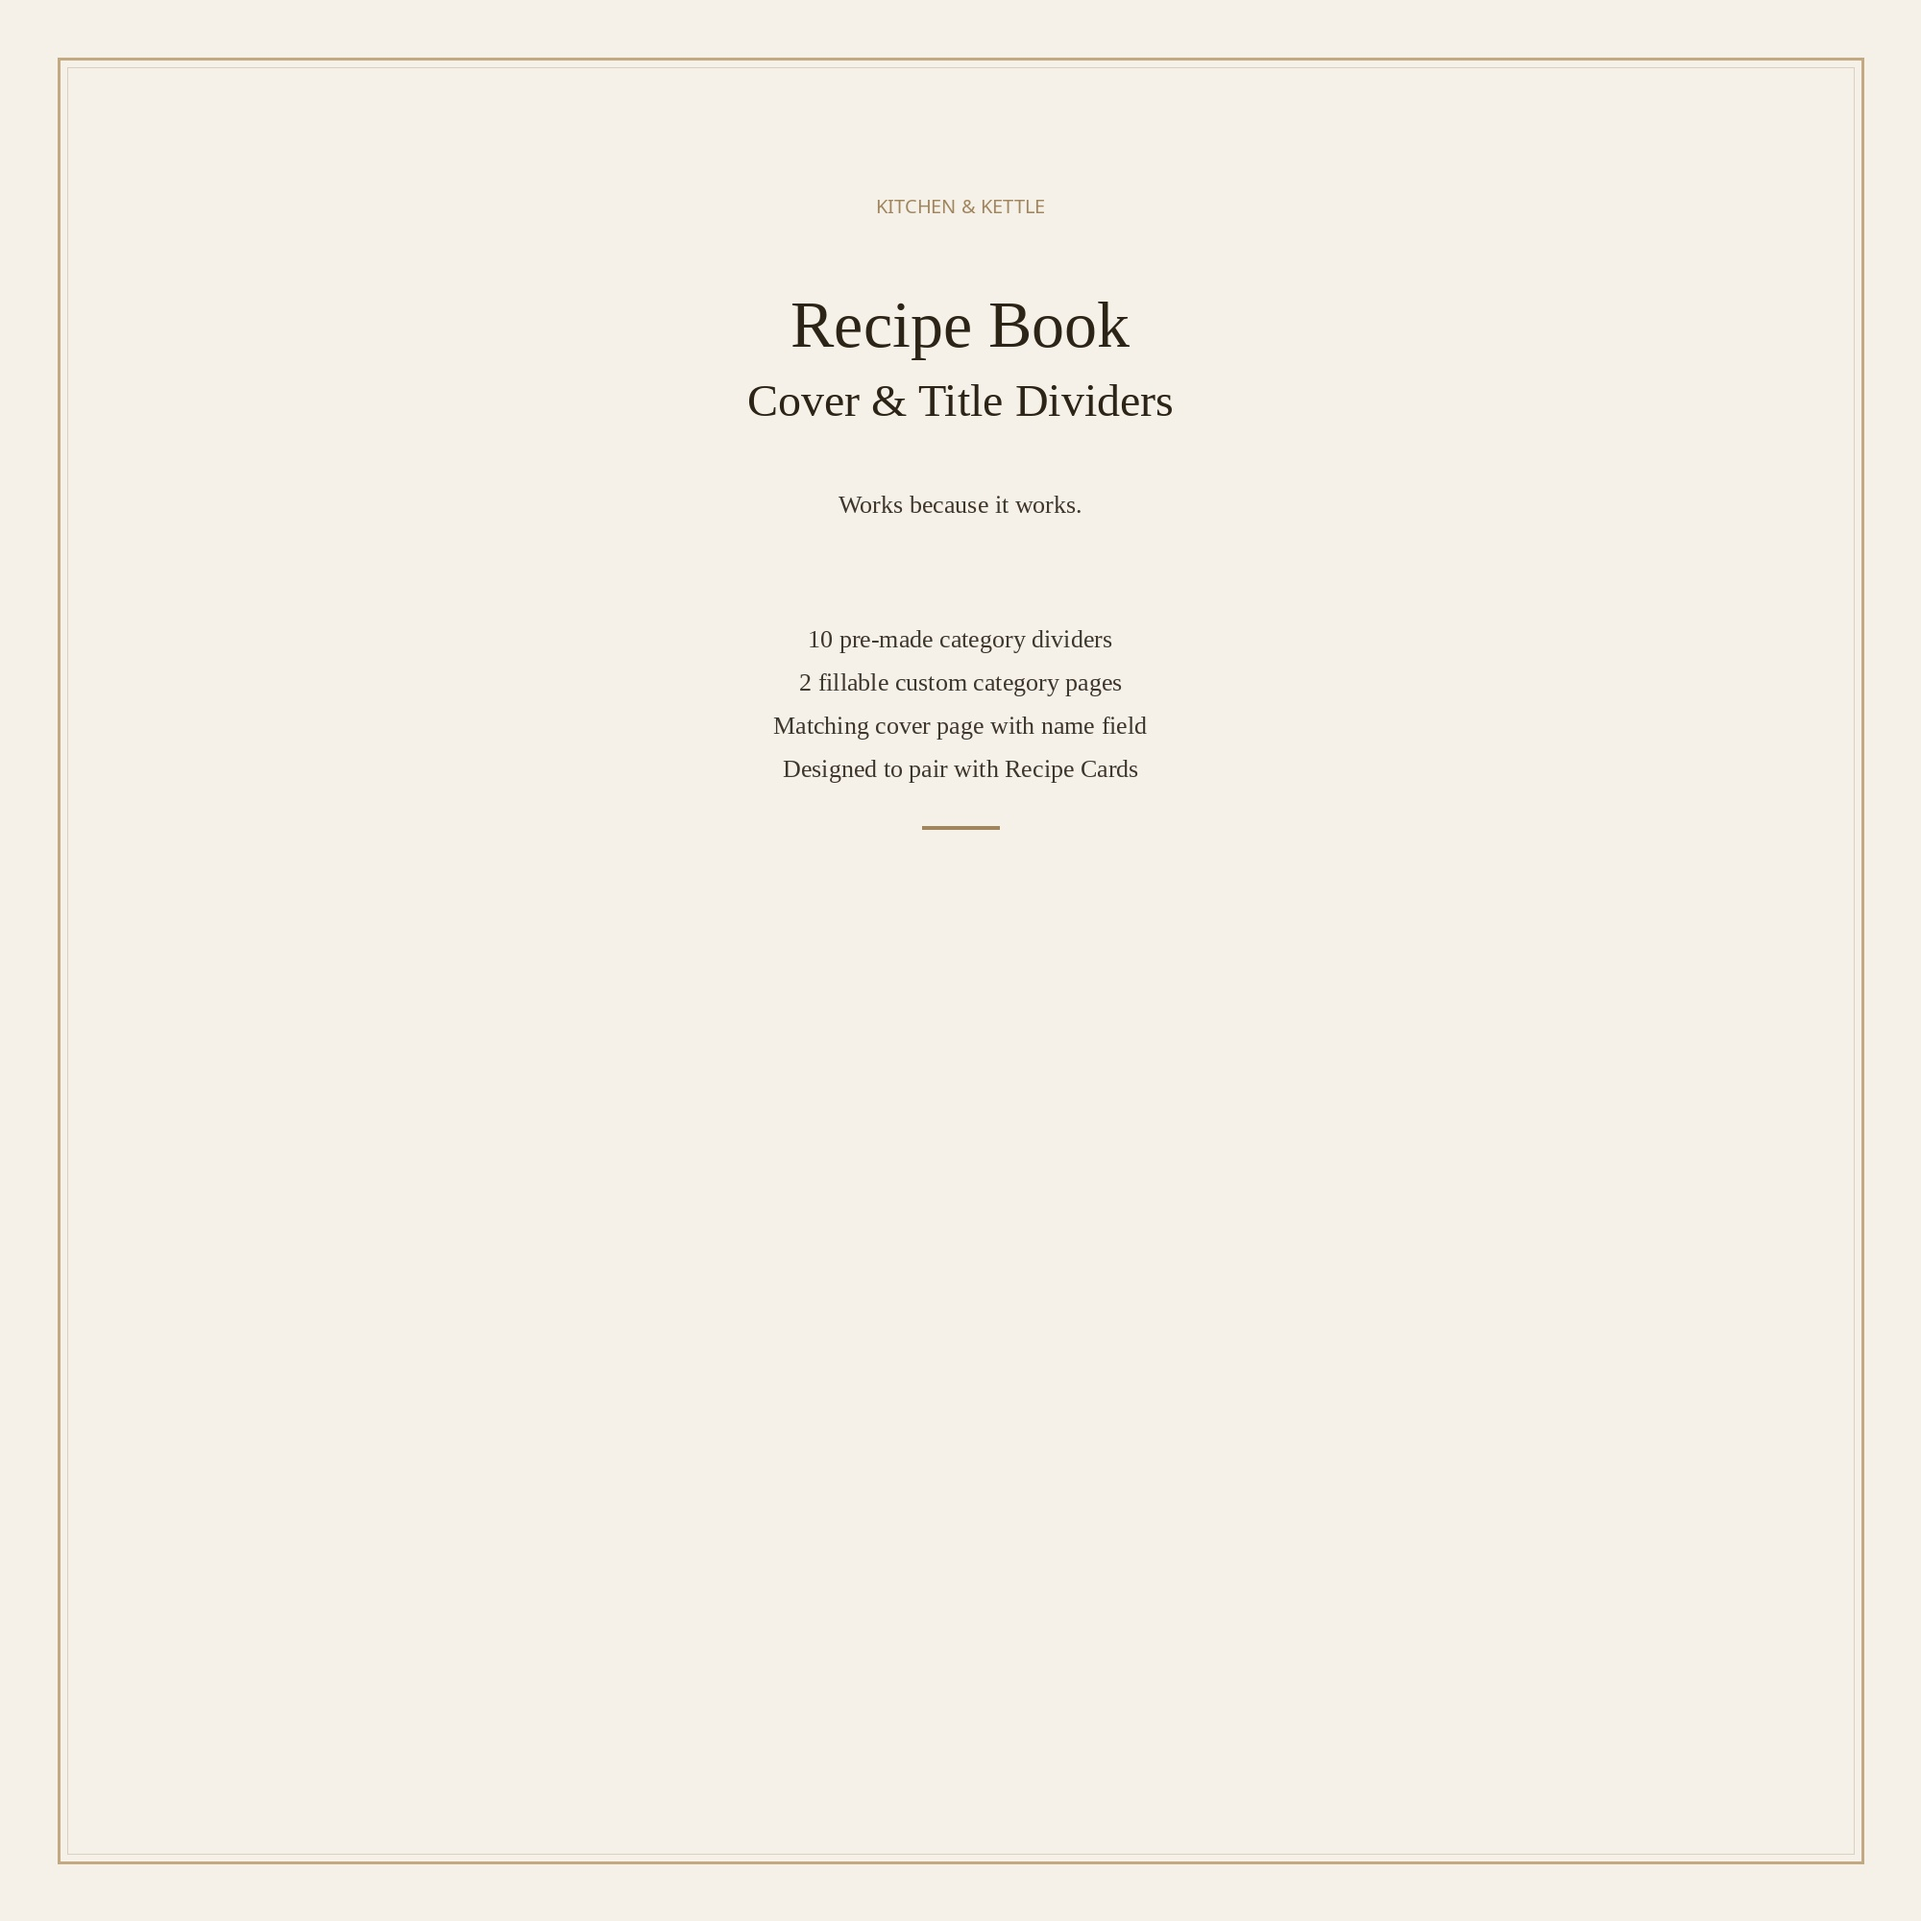
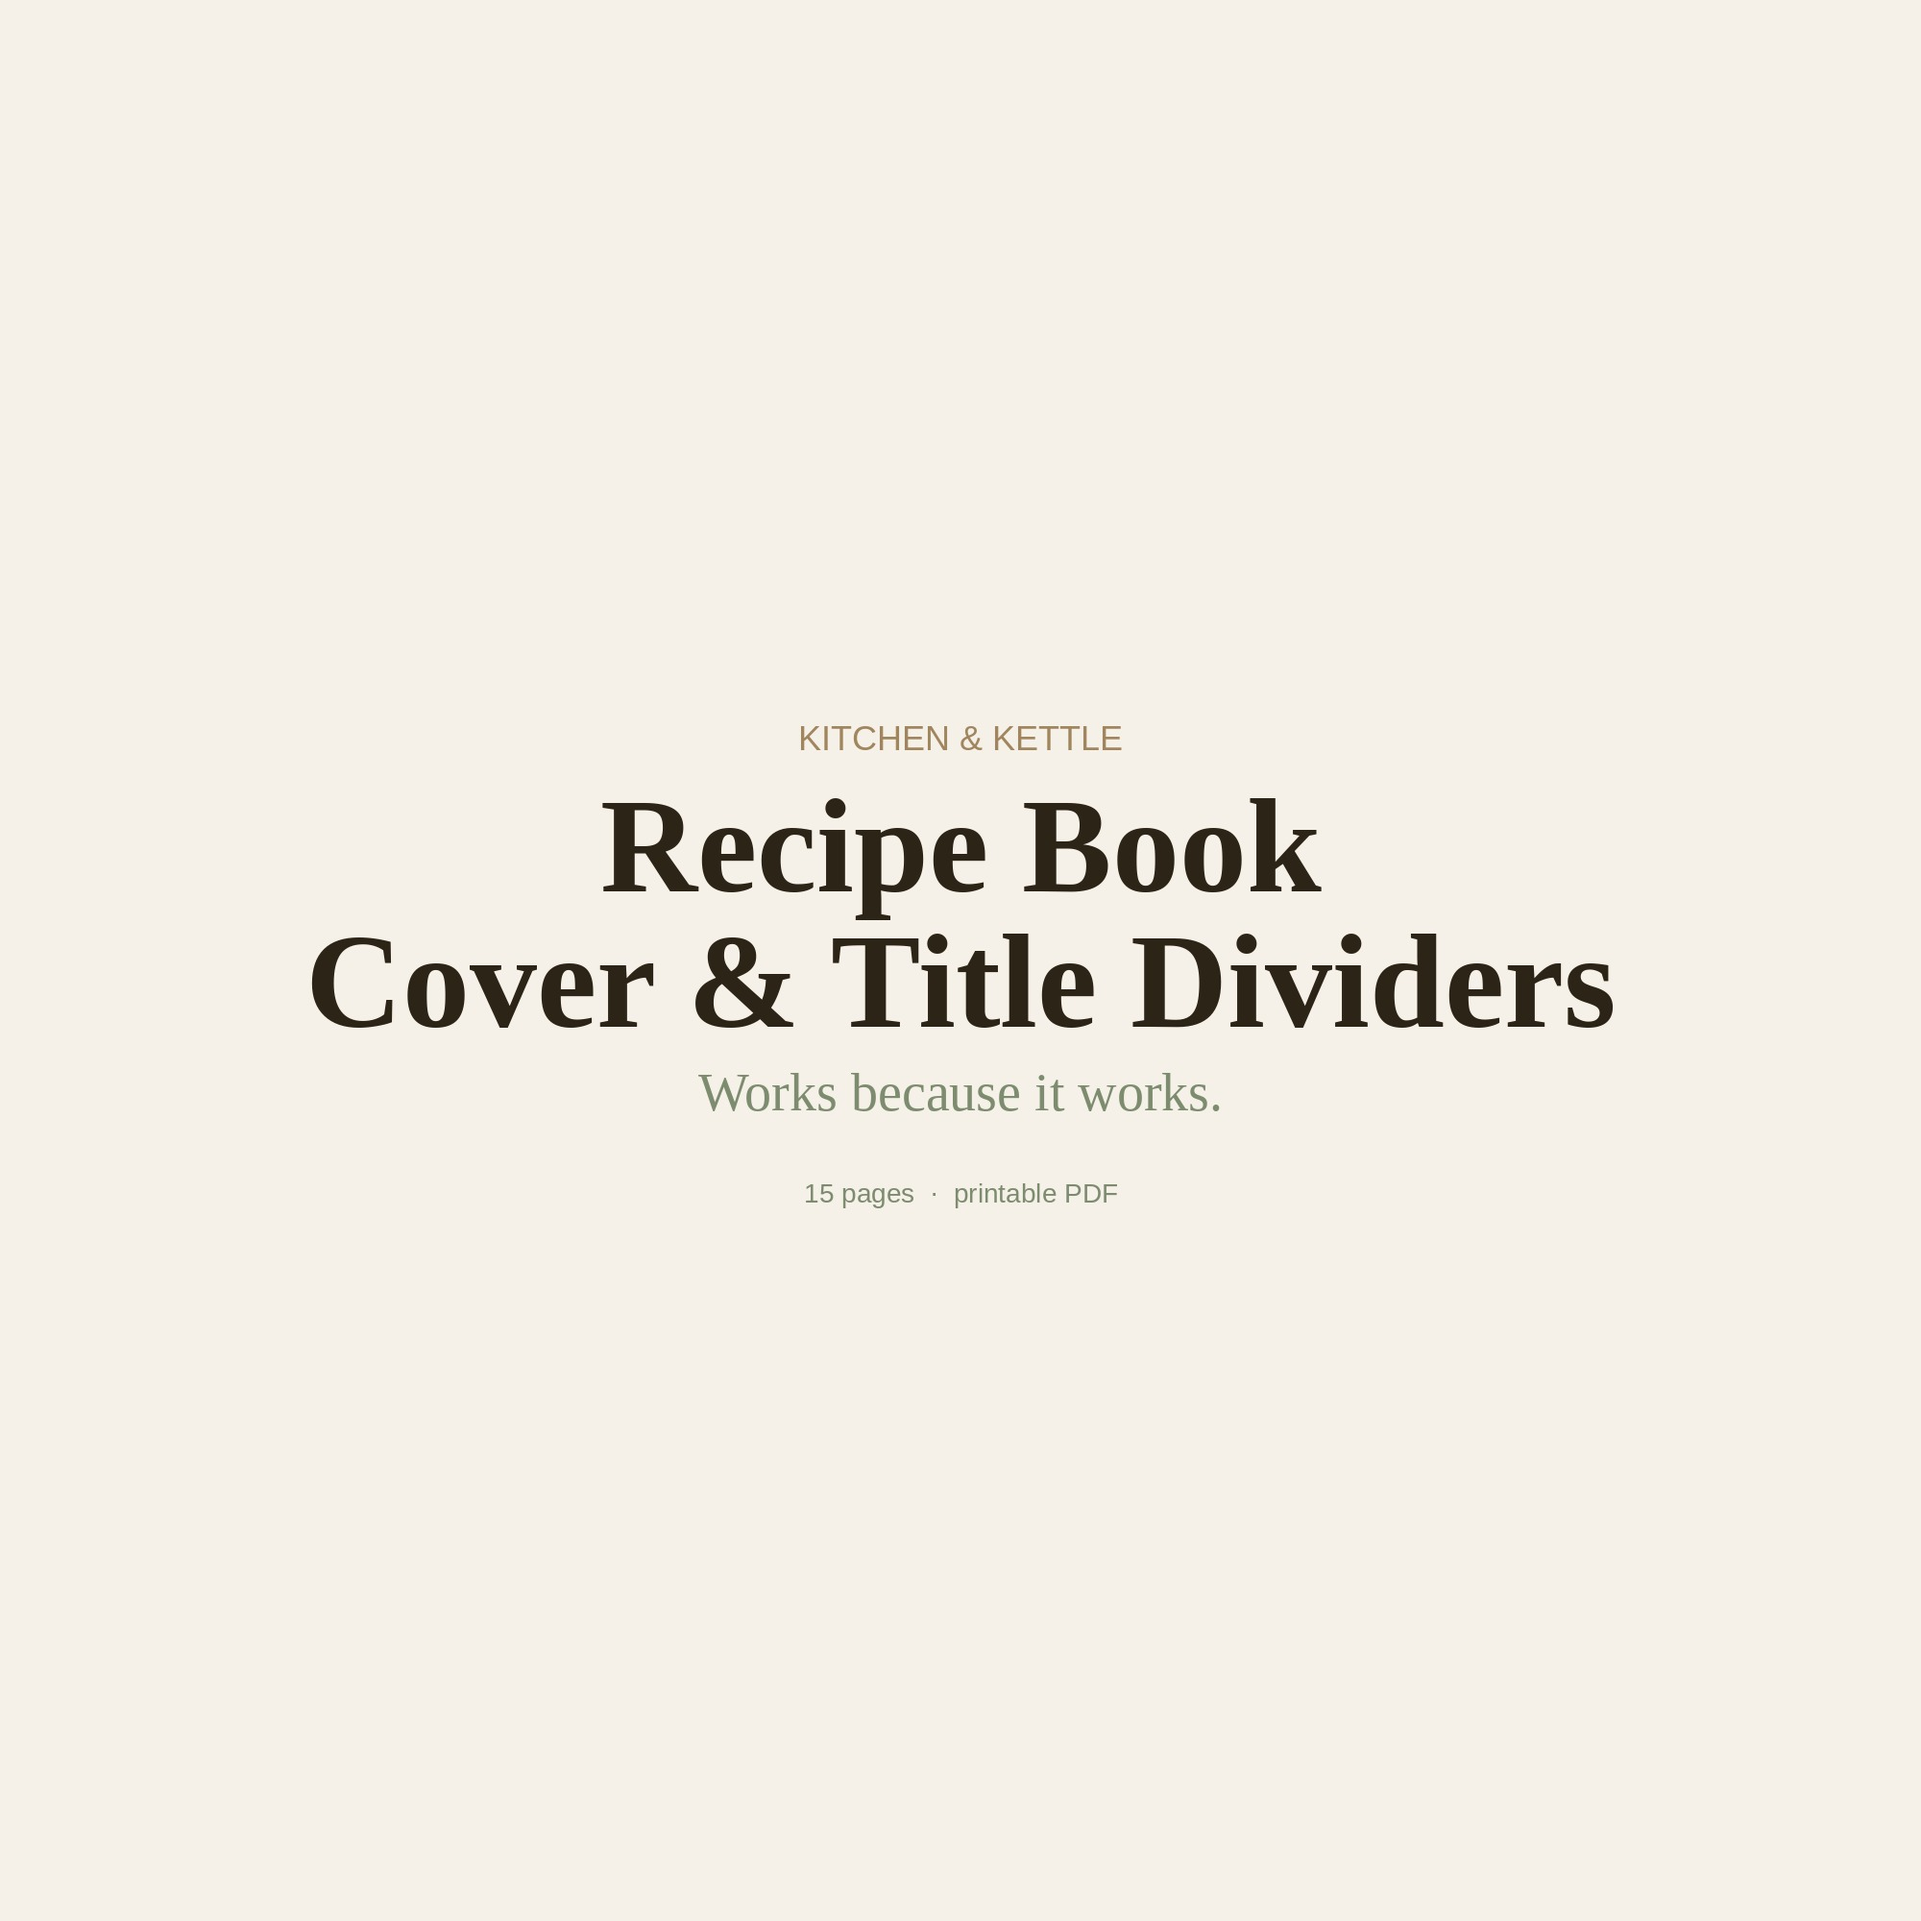
Recipe Book Dividers: add listing images, listing.md, update page count to 15 with recipe inserts
First Aid Checklist: listing.md, pin, images

Changed region(s): [[0.155, 0.341, 0.837, 0.589], [0.403, 0.155, 0.62, 0.217], [0.496, 0.31, 0.527, 0.341]]

diff --git a/digital-products/recipe-book-dividers/generate_info_cards.py b/digital-products/recipe-book-dividers/generate_info_cards.py
@@ -1,0 +1,182 @@
+"""Generate 3 listing images for Recipe Book Dividers Etsy listing.
+Image 1: Title card (typography-only primary)
+Image 2: What's Inside
+Image 3: What Sets It Apart
+"""
+from PIL import Image, ImageDraw, ImageFont
+
+SERIF = '/usr/share/fonts/liberation/LiberationSerif-Regular.ttf'
+SERIF_BOLD = '/usr/share/fonts/liberation/LiberationSerif-Bold.ttf'
+SANS = '/usr/share/fonts/liberation/LiberationSans-Regular.ttf'
+
+PAPER = (245, 240, 232)
+INK = (44, 36, 22)
+CLAY = (160, 133, 94)
+SAGE = (125, 139, 111)
+
+
+def make_info_card(filename, title, subtitle, bullets, page_note):
+    """Standard left-aligned info card (for images 2 and 3)."""
+    img = Image.new('RGB', (2000, 2000), PAPER)
+    draw = ImageDraw.Draw(img)
+
+    title_font = ImageFont.truetype(SERIF, 140)
+    tw = title_font.getbbox(title)[2] - title_font.getbbox(title)[0]
+    if tw > 1800:
+        title_font = ImageFont.truetype(SERIF, 110)
+
+    subtitle_font = ImageFont.truetype(SERIF, 52)
+    bullet_font = ImageFont.truetype(SERIF, 48)
+    note_font = ImageFont.truetype(SANS, 28)
+    brand_font = ImageFont.truetype(SANS, 28)
+
+    title_h = title_font.getbbox(title)[3] - title_font.getbbox(title)[1]
+    subtitle_h = subtitle_font.getbbox(subtitle)[3] - subtitle_font.getbbox(subtitle)[1]
+    bullet_h = bullet_font.getbbox("Test")[3] - bullet_font.getbbox("Test")[1]
+    note_h = note_font.getbbox(page_note)[3] - note_font.getbbox(page_note)[1]
+
+    gap_title_sub = 40
+    gap_sub_bullets = 40
+    gap_between_bullets = 18
+    gap_before_note = 50
+
+    total_h = title_h + gap_title_sub + subtitle_h + gap_sub_bullets
+    for _ in bullets:
+        total_h += bullet_h + gap_between_bullets
+    total_h += gap_before_note + note_h
+
+    start_y = (2000 - total_h) // 2
+    y = start_y
+    block_x = 530
+
+    draw.text((block_x, y), title, font=title_font, fill=INK)
+    y += title_h + gap_title_sub
+
+    draw.text((block_x, y), subtitle, font=subtitle_font, fill=SAGE)
+    y += subtitle_h + gap_sub_bullets
+
+    for line in bullets:
+        if line == '':
+            y += bullet_h
+        else:
+            draw.text((block_x, y), line, font=bullet_font, fill=INK)
+            y += bullet_h + gap_between_bullets
+    y += gap_before_note
+
+    draw.text((block_x, y), page_note, font=note_font, fill=SAGE)
+    draw.text((100, 1920), "Kitchen & Kettle", font=brand_font, fill=CLAY)
+
+    img.save(filename, 'PNG', optimize=True)
+    print(f"Saved {filename}")
+
+
+def make_title_card(filename, title_lines, tagline):
+    """Typography-only title card — centered, no bullets."""
+    img = Image.new('RGB', (2000, 2000), PAPER)
+    draw = ImageDraw.Draw(img)
+
+    title_font = ImageFont.truetype(SERIF_BOLD, 140)
+    tag_font = ImageFont.truetype(SERIF, 56)
+    brand_font = ImageFont.truetype(SANS, 36)
+    note_font = ImageFont.truetype(SANS, 28)
+
+    # Measure title lines
+    line_heights = []
+    total_title_h = 0
+    for line in title_lines:
+        bb = title_font.getbbox(line)
+        tw = bb[2] - bb[0]
+        if tw > 1800:
+            f = ImageFont.truetype(SERIF_BOLD, 110)
+            bb = f.getbbox(line)
+            line_heights.append((f, bb))
+        else:
+            line_heights.append((title_font, bb))
+        total_title_h += bb[3] - bb[1] + 14
+
+    tag_h = tag_font.getbbox(tagline)[3] - tag_font.getbbox(tagline)[1]
+
+    # Total height: brand + title + gap + tagline + note
+    brand_h = brand_font.getbbox("KITCHEN & KETTLE")[3] - brand_font.getbbox("KITCHEN & KETTLE")[1]
+    note_h = note_font.getbbox("13 pages  ·  printable PDF")[3] - note_font.getbbox("13 pages  ·  printable PDF")[1]
+
+    total_h = brand_h + 30 + total_title_h + 50 + tag_h + 80 + note_h
+    start_y = (2000 - total_h) // 2
+    y = start_y
+
+    # Brand label
+    brand_text = "KITCHEN & KETTLE"
+    bw = brand_font.getbbox(brand_text)[2] - brand_font.getbbox(brand_text)[0]
+    draw.text((1000 - bw // 2, y), brand_text, font=brand_font, fill=CLAY)
+    y += brand_h + 30
+
+    # Title lines (centered)
+    for font, bb in line_heights:
+        tw = bb[2] - bb[0]
+        draw.text((1000 - tw // 2, y), title_lines.pop(0) if title_lines else "", font=font, fill=INK)
+        y += bb[3] - bb[1] + 14
+
+    y += 50
+
+    # Tagline (centered)
+    tw = tag_font.getbbox(tagline)[2] - tag_font.getbbox(tagline)[0]
+    draw.text((1000 - tw // 2, y), tagline, font=tag_font, fill=SAGE)
+    y += tag_h + 80
+
+    # Page note
+    note = "15 pages  ·  printable PDF"
+    nw = note_font.getbbox(note)[2] - note_font.getbbox(note)[0]
+    draw.text((1000 - nw // 2, y), note, font=note_font, fill=SAGE)
+
+    img.save(filename, 'JPEG', quality=92, optimize=True)
+    print(f"Saved {filename}")
+
+
+# === IMAGE 1: Title Card (primary) ===
+make_title_card(
+    'primary-product-image.jpg',
+    ['Recipe Book', 'Cover & Title Dividers'],
+    'Works because it works.',
+)
+
+# === IMAGE 2: What's Inside ===
+make_info_card(
+    'recipe-book-dividers-image.png',
+    "What's Inside",
+    'Organize your recipe collection by category',
+    [
+        '\u2022  Fillable cover page with your name',
+        '\u2022  10 pre-made category dividers:',
+        '   Breakfast, Soups & Stews, Salads & Sides,',
+        '   Main Dishes, Breads & Baking, Desserts,',
+        '   Preserves & Pickles, Drinks,',
+        '   Snacks & Appetizers, Holiday',
+        '\u2022  2 write-in custom category pages',
+        '\u2022  2 recipe insert cards \u2014 fill in your own',
+        '   recipes and slip behind the dividers',
+        '\u2022  Interactive \u2014 type your categories and',
+        '   recipes, they save to your device',
+    ],
+    '15 pages \u00b7 printable & interactive',
+)
+
+# === IMAGE 3: What Sets It Apart ===
+make_info_card(
+    'recipe-book-dividers-image-2.png',
+    'Designed to Pair',
+    'With the Recipe Cards',
+    [
+        '\u2022  Same letter-size format — print, cut tabs,',
+        '   and slip into your recipe binder.',
+        '',
+        '\u2022  Clay kettle logo on every divider page',
+        '   ties the whole collection together.',
+        '',
+        '\u2022  Clean, simple design — nothing fussy,',
+        '   nothing you don\u2019t need.',
+        '',
+        '\u2022  Two blank custom dividers so your system',
+        '   grows with your recipe collection.',
+    ],
+    'Interactive HTML + printable PDF',
+)

diff --git a/digital-products/recipe-book-dividers/listing.md b/digital-products/recipe-book-dividers/listing.md
@@ -1,0 +1,51 @@
+# Etsy Listing — Recipe Book Dividers
+
+## Category
+Guides & How Tos
+Type: Digital download
+
+## Title (copy-paste)
+Recipe Book Dividers | 10 Category Tabs and Recipe Inserts | Printable Cookbook Organizer | Fillable Cover | Interactive PDF
+
+## Photos (upload in this order)
+1. primary-product-image.jpg
+2. recipe-book-dividers-image.png
+3. recipe-book-dividers-image-2.png
+
+## Description (copy-paste)
+A proper home for your recipe collection. Ten pre-made category dividers, two write-in custom tabs, and two recipe insert cards — everything you need to organize your recipes by what you actually cook.
+
+Print on letter paper, cut the tabs, and slip into any binder. The cover page has a fillable name field. The recipe inserts give you a clean format to write down your favorites and file them behind the right divider. Type directly into the interactive version — your categories and recipes save to your device.
+
+**What's inside (15 pages):**
+- Fillable cover page with your name
+- 10 pre-made category dividers: Breakfast, Soups & Stews, Salads & Sides, Main Dishes, Breads & Baking, Desserts, Preserves & Pickles, Drinks, Snacks & Appetizers, Holiday & Special Occasions
+- 2 write-in custom category pages for whatever doesn't fit the pre-made list
+- 2 recipe insert cards — clean template for writing down your own recipes and filing them behind the right divider
+- Clay kettle logo on every divider page
+
+**Designed to pair with the Recipe Cards** — same letter-size format, same warm paper and real typography. Print the dividers and inserts together, add the recipe cards, and you've got a complete recipe binder.
+
+▶ This is a digital download. No physical product will be shipped.
+▶ To open: double-click the HTML file to open in your browser. If that doesn't work, drag and drop the file into any open browser window (Chrome, Safari, Firefox, Edge). No special software needed.
+▶ For a clean printout, uncheck "Headers and footers" in your browser's print dialog before printing or saving as PDF.
+▶ To print: File → Print. Use letter-size paper (8.5×11"), 100% scale. Cardstock recommended for dividers.
+▶ To save as PDF: File → Print → Save as PDF (built into every browser).
+▶ Works with GoodNotes, Notability, and any PDF app.
+
+## Tags (copy-paste, comma-separated)
+recipe dividers, recipe organizer, cookbook tabs, recipe binder, printable recipe, kitchen printable, recipe cards, recipe book cover, recipe collection, meal planner tabs, recipe journal, interactive PDF, cooking organizer
+
+## Pinterest (copy-paste)
+### Title
+Recipe Book Dividers | 10 Category Tabs and Recipe Inserts | Printable Cookbook Organizer
+### Description
+A proper home for your recipe collection. Ten pre-made category dividers, two write-in custom tabs, and two recipe insert cards — everything you need to organize your recipes. Print, cut the tabs, and slip into any binder. Interactive version saves your categories and recipes to your device. Printable PDF from Kitchen & Kettle.
+
+## Price
+
+$.00
+
+## Digital files to upload
+- recipe-book-dividers.pdf (recommended for buyers)
+- recipe-book-dividers.html (bonus — for browser viewing)
